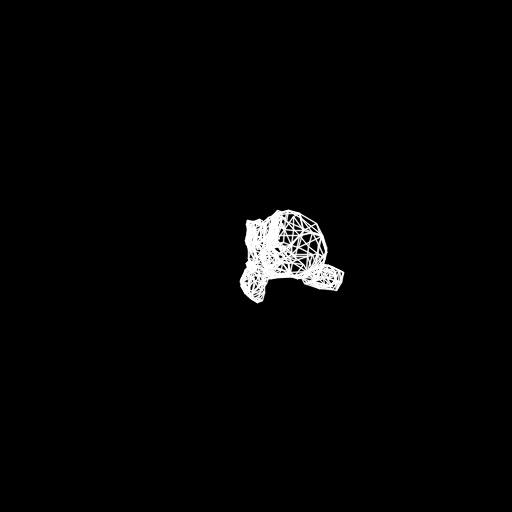
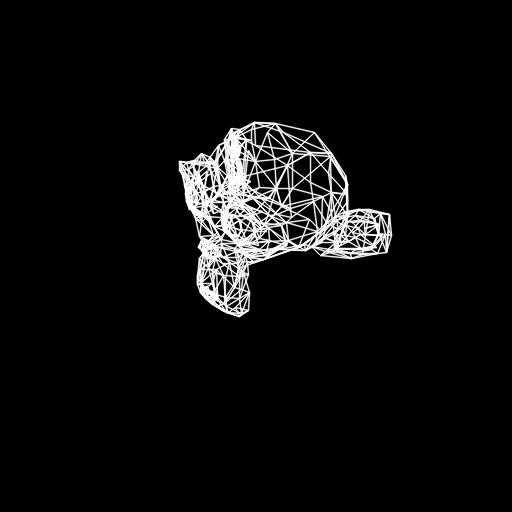
Good inputs for monkey

Changed region(s): [[0.3438, 0.2188, 0.7812, 0.625]]

diff --git a/main.cpp b/main.cpp
@@ -55,10 +55,10 @@ int main() {
     // M[3][0] = 0.0; M[3][1] = 0.0; M[3][2] = 0.0; M[3][3] = 1.0;
 
     string mesh_file("meshes/monkey.csv");
-    CameraMesh camera_mesh(mesh_file, 0.90, 0.75, 0.853, 7.358890056610107, -6.925790786743164, 4.958309173583984);
+    CameraMesh camera_mesh(mesh_file, 0.90, 0.70, 0.6, 7.358890056610107, -6.925790786743164, 4.958309173583984);
     // camera_mesh.print_camera_points();
 
-    Camera camera(1,1);
+    Camera camera(0.5,0.5);
     camera.render(camera_mesh, 512, 512);
 
     return 0;
